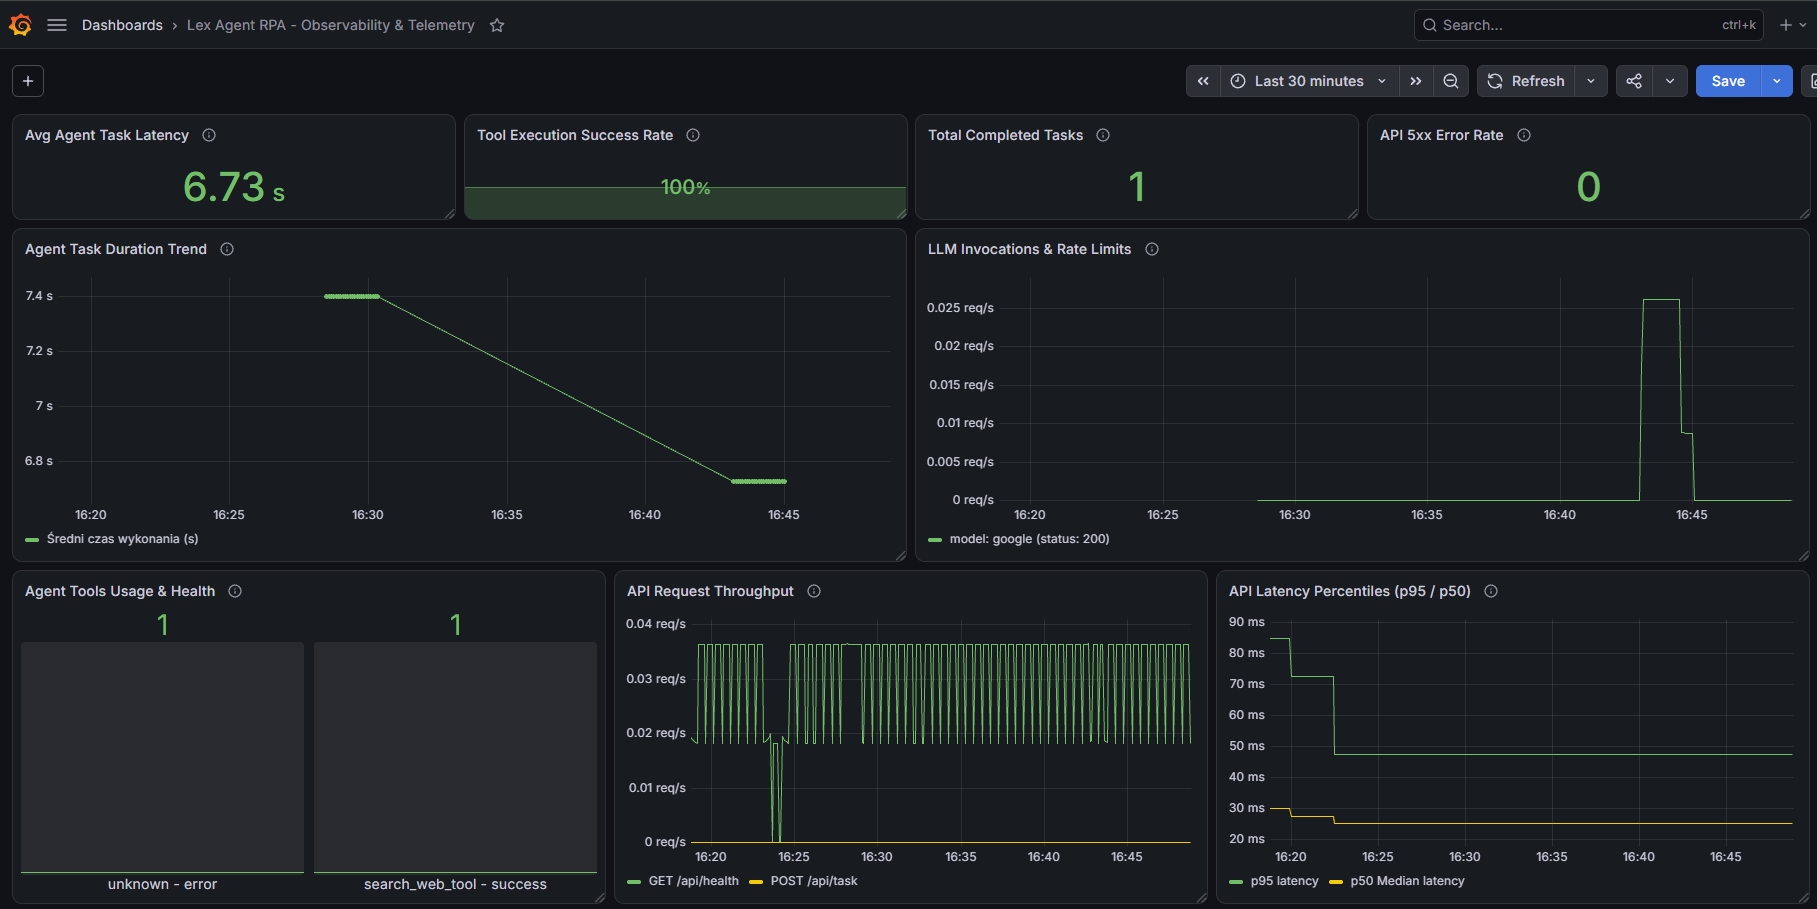
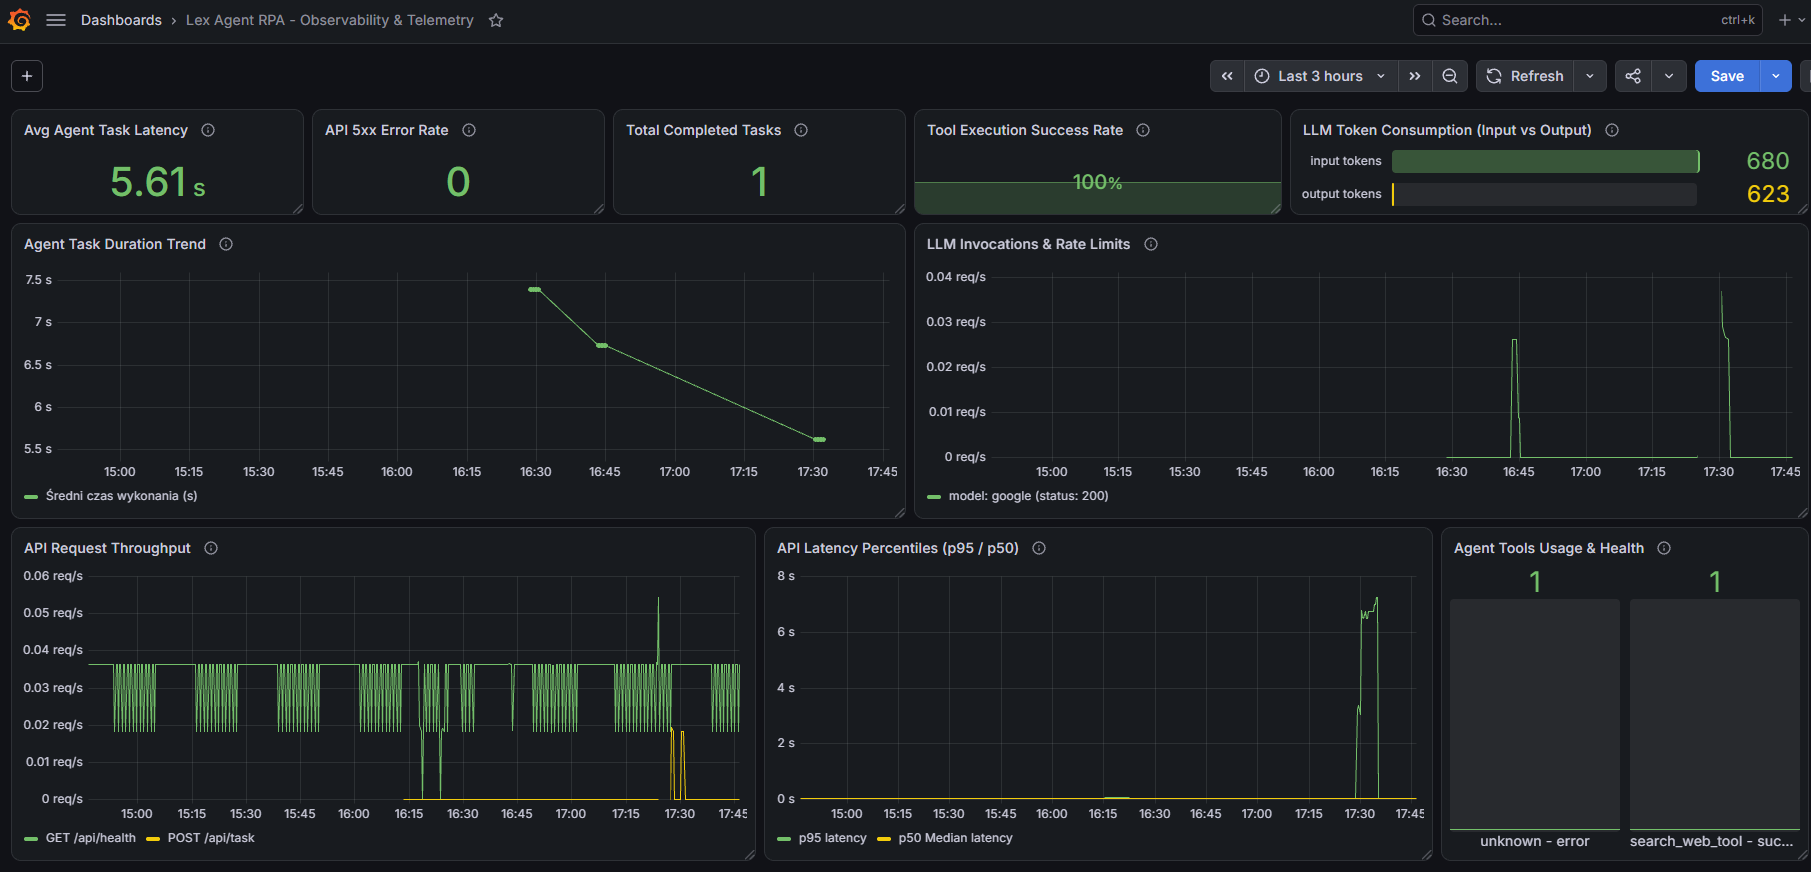
feat(telemetry): add LLM token tracking, burn alert and Grafana bar gauge

diff --git a/src/agent/callbacks/agent_metrics.py b/src/agent/callbacks/agent_metrics.py
@@ -5,7 +5,8 @@ from langchain_core.callbacks import BaseCallbackHandler
 from src.api.metrics import (
     LAR_AGENT_EXECUTION_SECONDS, 
     LAR_LLM_REQUESTS_TOTAL, 
-    LAR_AGENT_TOOL_CALLS_TOTAL
+    LAR_AGENT_TOOL_CALLS_TOTAL,
+    LAR_LLM_TOKENS_TOTAL
 )
 
 
@@ -53,6 +54,29 @@ class AgentMetricsCallbackHandler(BaseCallbackHandler):
             model="google",
             status="200"
         ).inc()
+
+        input_tokens = 0
+        output_tokens = 0
+
+        # LangChain usage_metadata attached to ChatGeneration message
+        if response.generations:
+            for gen_list in response.generations:
+                for gen in gen_list:
+                    msg = getattr(gen, "message", None)
+                    usage = getattr(msg, "usage_metadata", None) or {}
+                    input_tokens += usage.get("input_tokens", 0)
+                    output_tokens += usage.get("output_tokens", 0)
+
+        # llm_output token_usage fallback (Google / OpenAI format)
+        if not (input_tokens or output_tokens):
+            usage = (response.llm_output or {}).get("token_usage") or {}
+            input_tokens = usage.get("prompt_tokens") or usage.get("prompt_token_count", 0)
+            output_tokens = usage.get("completion_tokens") or usage.get("candidates_token_count", 0)
+
+        if input_tokens > 0:
+            LAR_LLM_TOKENS_TOTAL.labels(model="google", type="input").inc(input_tokens)
+        if output_tokens > 0:
+            LAR_LLM_TOKENS_TOTAL.labels(model="google", type="output").inc(output_tokens)
     
     def on_llm_error(self, error, **kwargs):
         status = "429" if "429" in str(error) else "error"

diff --git a/src/api/metrics.py b/src/api/metrics.py
@@ -40,6 +40,12 @@ LAR_AGENT_TOOL_CALLS_TOTAL = Counter(
     ["tool_name", "status"]
 )
 
+LAR_LLM_TOKENS_TOTAL = Counter(
+    "lar_llm_tokens_total",
+    "Total tokens consumed by LLM calls categorized by model and token type (input/output)",
+    ["model", "type"]
+)
+
 
 def setup_metrics(app):
     """Rejestruje middleware oraz endpoint /metrics w aplikacji FastAPI."""

diff --git a/README.md b/README.md
@@ -362,7 +362,7 @@ W architekturze produkcyjnej agenta prawno-finansowego kluczowe jest nieprzerwan
 ### 1. Architektura Telemetrii i Metryk (`/metrics`)
 Aplikacja FastAPI wystawia w standardzie OpenMetrics metryki na dedykowanym punkcie końcowym `GET /metrics`. Zbierane dane dzielą się na dwa obszary:
 * **Warstwa HTTP:** Licznik żądań `http_requests_total` oraz histogram czasu odpowiedzi `http_request_duration_seconds`.
-* **Warstwa Agenta i Narzędzi (LangGraph Callback):** `LAR_AGENT_EXECUTION_SECONDS` (całkowity czas wykonania grafu), `LAR_LLM_REQUESTS_TOTAL` (zapytania do modeli wraz z kodami błędów, np. 429 rate-limit) oraz `LAR_AGENT_TOOL_CALLS_TOTAL` (sukcesy i porażki poszczególnych narzędzi: Playwright, RAG retriever, Slack, MS Graph).
+* **Warstwa Agenta i Narzędzi (LangGraph Callback):** `LAR_AGENT_EXECUTION_SECONDS` (całkowity czas wykonania grafu), `LAR_LLM_REQUESTS_TOTAL` (zapytania do modeli wraz ze statusami i limitami 429), `LAR_AGENT_TOOL_CALLS_TOTAL` (sukcesy i porażki narzędzi: Playwright, RAG retriever, Tavily) oraz `LAR_LLM_TOKENS_TOTAL` (dokładny wolumen tokenów wejściowych `input` i wyjściowych `output` do analizy kosztów).
 
 ---
 
@@ -377,6 +377,7 @@ Plik `prometheus/alerts.yml` definiuje wielopoziomowe reguły reagowania na incy
 | **`LlmProviderErrors`** | **P1 (Critical)** | `rate(lar_llm_requests_total{status="error"}[2m]) > 0` przez 30s | Błędy wywołań LLM (autoryzacja, sieć, awaria dostawcy) |
 | **`ApiHighErrorRate`** | **P1 (Critical)** | Błędy 5xx > 5% wszystkich żądań przez 1m | Awaria usług backendowych lub bazy danych |
 | **`AgentToolFailureRateHigh`** | **P2 (Warning)** | Błędy narzędzi agenta > 15% przez 2m | Problemy integracji (np. CAPTCHA, błąd parsowania PDF, portal sądowy) |
+| **`HighTokenConsumptionRate`** | **P2 (Warning)** | Zużycie tokenów `> 25k/min` przez 2m | Nietypowo intensywna generacja lub ryzyko spalenia budżetu tokenów |
 | **`ApiHighLatency`** | **P2 (Warning)** | Latencja p95 HTTP > 2s przez 2m | Degradacja wydajności punktów końcowych API |
 
 Reguły te są na bieżąco ewaluowane przez silnik Prometheusa:
